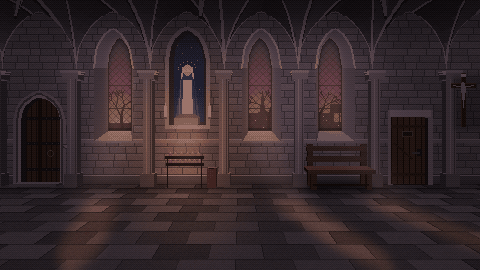
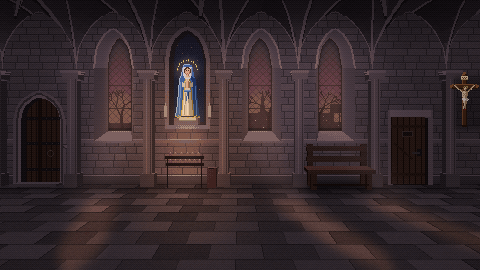
Detail Our Lady statue and crucifix in the convent corridor (#87)
Restores the detailed Our Lady statue in the convent corridor niche. The
work was committed on a local branch (`6056b64`) but never pushed or
merged, so the game still showed the old, plain statue.

## Changes
- `tools/art/convent.py`: hand-pixelled face with parted hair, veil and
neck; blue mantle with folds, rim light and gold trim; cream gown with
sash; praying hands; cloud and crescent base; crown of twelve stars. The
statue is painted after the dusk lightmap with its own candle tint and
pasted undithered, so its colours and face survive pixelisation.
- `assets/art/rooms/convent_corridor.png`: regenerated art.

Also details the corridor crucifix on the right wall: an ivory corpus
with a crown of thorns and bowed head, a loincloth and crossed nailed
feet, on a walnut cross with an INRI titulus. Like the statue, it is
painted after the lightmap and pasted undithered.

## Verification
- Cherry-picked cleanly onto current `main`. `py -3.14 tools\gen_art.py
convent` reproduces the committed PNG byte for byte, so it already
includes #74's changes to `convent.py`.
- `dotnet build`, then a headless import, then a recorded
`--room=convent_corridor --skip-title` frame shows the detailed statue
in the niche.

---------

Copilot-Session: ed02bd10-2448-44ea-80d3-d9a595c5c5a2
Copilot-Session: c405e015-effc-4e56-9192-dc14c6a4dfbb

diff --git a/tools/art/convent.py b/tools/art/convent.py
@@ -287,6 +287,100 @@ def c_cell_door(img):
     d.rectangle([cx - 4, a[1] + 15, cx + 4, a[1] + 18], fill=hx("2a1e14"))
 
 
+def our_lady(img, cx, fy, hy):
+    """The painted plaster Madonna: blue mantle over a cream gown, hands joined, on a cloud and crescent moon,
+    crowned with twelve stars.  cx is the centre line, fy the top of the pedestal and hy the top of her head."""
+    d = ImageDraw.Draw(img)
+    BLUE, BLUE_L, BLUE_D, RIM = hx("4a74c0"), hx("82a8e8"), hx("223c78"), hx("b8d0f0")
+    GOWN, GOWN_D, GOWN_L = hx("ece4d4"), hx("b4a894"), hx("fffaf0")
+    SKIN, SKIN_D = hx("f4cca8"), hx("b8805e")
+    GOLD, GOLD_D = hx("e8c050"), hx("9a7428")
+    # mantle: a hood over the head, falling wide to a flared hem
+    mantle = [(cx - 5, hy + 2), (cx - 4, hy - 1), (cx - 2, hy - 2), (cx + 2, hy - 2), (cx + 4, hy - 1), (cx + 5, hy + 2),
+              (cx + 6, hy + 9), (cx + 8, hy + 13), (cx + 9, hy + 24), (cx + 10, hy + 38), (cx + 12, fy - 2),
+              (cx + 9, fy - 1), (cx + 6, fy - 3), (cx - 6, fy - 3), (cx - 9, fy - 1), (cx - 12, fy - 2),
+              (cx - 10, hy + 38), (cx - 9, hy + 24), (cx - 8, hy + 13), (cx - 6, hy + 9)]
+    d.polygon(mantle, fill=BLUE)
+    # shadowed right side and folds
+    d.polygon([(cx + 4, hy + 10), (cx + 8, hy + 13), (cx + 9, hy + 24), (cx + 10, hy + 38), (cx + 12, fy - 2),
+               (cx + 9, fy - 1), (cx + 7, fy - 3), (cx + 6, hy + 26)], fill=BLUE_D)
+    d.line([(cx + 8, hy + 20), (cx + 9, fy - 4)], fill=BLUE)
+    d.line([(cx - 7, hy + 16), (cx - 8, fy - 5)], fill=BLUE_L)
+    d.line([(cx - 5, hy + 22), (cx - 6, fy - 6)], fill=hx("3a5ea8"))
+    d.line([(cx - 4, hy), (cx - 5, hy + 3)], fill=BLUE_L)
+    # pale rim along her left so she stands clear of the night-blue niche
+    d.line([(cx - 5, hy + 2), (cx - 6, hy + 9), (cx - 8, hy + 13), (cx - 9, hy + 24), (cx - 10, hy + 38),
+            (cx - 12, fy - 2)], fill=RIM)
+    d.line([(cx - 4, hy - 1), (cx - 2, hy - 2), (cx + 2, hy - 2)], fill=RIM)
+    # gown in the opening of the mantle
+    gown = [(cx - 2, hy + 10), (cx + 2, hy + 10), (cx + 4, hy + 28), (cx + 6, fy - 3), (cx - 6, fy - 3),
+            (cx - 4, hy + 28)]
+    d.polygon(gown, fill=GOWN)
+    d.polygon([(cx + 1, hy + 24), (cx + 3, hy + 24), (cx + 5, fy - 3), (cx + 2, fy - 3)], fill=GOWN_D)
+    d.line([(cx - 2, hy + 27), (cx - 3, fy - 4)], fill=GOWN_D)
+    d.line([(cx - 3, hy + 30), (cx - 4, fy - 5)], fill=GOWN_L)
+    d.line([(cx, hy + 28), (cx, fy - 4)], fill=GOWN_L)
+    # gold trim down both edges of the mantle and along the hem
+    d.line([(cx - 2, hy + 10), (cx - 4, hy + 28), (cx - 6, fy - 3)], fill=GOLD)
+    d.line([(cx + 2, hy + 10), (cx + 4, hy + 28), (cx + 6, fy - 3)], fill=GOLD_D)
+    d.line([(cx - 12, fy - 2), (cx - 9, fy - 1), (cx - 6, fy - 3)], fill=GOLD)
+    d.line([(cx + 6, fy - 3), (cx + 9, fy - 1), (cx + 12, fy - 2)], fill=GOLD_D)
+    # blue sash knotted at the waist, its ends hanging
+    d.line([(cx - 3, hy + 24), (cx + 3, hy + 24)], fill=BLUE_L)
+    d.line([(cx - 3, hy + 25), (cx + 3, hy + 25)], fill=BLUE)
+    d.line([(cx, hy + 26), (cx - 1, hy + 34)], fill=BLUE)
+    d.line([(cx + 1, hy + 26), (cx + 1, hy + 32)], fill=BLUE_D)
+    # sleeves meeting at the breast, hands joined in prayer
+    d.polygon([(cx - 5, hy + 16), (cx - 1, hy + 18), (cx - 1, hy + 21), (cx - 5, hy + 20)], fill=GOWN)
+    d.polygon([(cx + 5, hy + 16), (cx + 1, hy + 18), (cx + 1, hy + 21), (cx + 5, hy + 20)], fill=GOWN_D)
+    d.polygon([(cx - 1, hy + 21), (cx - 1, hy + 15), (cx, hy + 13), (cx + 1, hy + 15), (cx + 1, hy + 21)], fill=SKIN)
+    d.line([(cx + 1, hy + 15), (cx + 1, hy + 21)], fill=SKIN_D)
+    d.line([(cx - 2, hy + 16), (cx - 2, hy + 21)], fill=GOWN_D)
+    d.line([(cx + 2, hy + 16), (cx + 2, hy + 21)], fill=hx("8a7e6c"))
+    # white veil framing the face, under the hood
+    d.polygon([(cx - 4, hy + 1), (cx + 4, hy + 1), (cx + 4, hy + 9), (cx + 2, hy + 12), (cx - 2, hy + 12),
+               (cx - 4, hy + 9)], fill=hx("eef0f8"))
+    d.line([(cx + 4, hy + 2), (cx + 4, hy + 9)], fill=hx("a8acc0"))
+    # face, gently bowed: hand-placed pixels so it reads as a young woman at this size
+    face = ("..HHH..",
+            ".HHsHH.",
+            "HHssssH",
+            "HsesesH",
+            "HbsnsbH",
+            "HssssSH",
+            ".SsmsS.",
+            "..SsS..")
+    ink = {"H": hx("5a3826"), "s": SKIN, "S": SKIN_D, "e": hx("5a3428"), "b": hx("ec9c88"),
+           "n": hx("e8b896"), "m": hx("d47a74")}
+    for r, row in enumerate(face):
+        for c, ch in enumerate(row):
+            if ch in ink:
+                d.point((cx - 3 + c, hy + 1 + r), fill=ink[ch])
+    # slender neck and the round neckline of the gown, so the veil only frames her face
+    d.rectangle([cx - 1, hy + 9, cx + 1, hy + 10], fill=SKIN)
+    d.point((cx + 1, hy + 9), fill=SKIN_D)
+    d.line([(cx - 2, hy + 11), (cx + 2, hy + 11)], fill=GOWN)
+    d.point((cx - 2, hy + 10), fill=GOWN)
+    d.point((cx + 2, hy + 10), fill=GOWN_D)
+    # bare feet peeping from the hem, on a little cloud and a gilded crescent moon
+    for x in (cx - 2, cx + 1):
+        d.line([(x, fy - 3), (x + 1, fy - 3)], fill=SKIN)
+    d.polygon([(cx - 9, fy - 3), (cx - 7, fy - 1), (cx - 3, fy), (cx + 3, fy), (cx + 7, fy - 1), (cx + 9, fy - 3),
+               (cx + 7, fy - 2), (cx, fy - 1), (cx - 7, fy - 2)], fill=GOLD)
+    d.line([(cx - 3, fy), (cx + 3, fy)], fill=GOLD_D)
+    for x, r in ((cx - 6, 2), (cx - 2, 2), (cx + 3, 2), (cx + 7, 1)):
+        d.ellipse([x - r, fy - 1, x + r, fy + 2], fill=hx("d8d0c4"))
+    d.line([(cx - 8, fy + 2), (cx + 8, fy + 2)], fill=hx("8a8478"))
+    # crown of twelve stars
+    for k in range(12):
+        a = math.pi * (0.04 + 0.92 * k / 11)
+        sx, sy = round(cx - math.cos(a) * 10), round(hy + 4 - math.sin(a) * 10)
+        d.point((sx, sy), fill=hx("fff2a8"))
+        if k % 2 == 0:
+            d.point((sx, sy - 1), fill=GOLD)
+            d.point((sx, sy + 1), fill=GOLD_D)
+
+
 def c_niche(img):
     """Our Lady in a pointed niche, the votive stand burning beneath her."""
     d = ImageDraw.Draw(img)
@@ -300,23 +394,6 @@ def c_niche(img):
         d.point((sx, sy), fill=hx("c8a850"))
     # pedestal
     CR.box(img, xc - 11, xc + 11, 60, 66, -8, 4, hx("948a78"), top=hx("c8bca4"), side=hx("5a5248"))
-    fx, fy = CR.P(xc, 66, -2)
-    hx_, hy = CR.P(xc, 118, -2)
-    ht = fy - hy
-    # mantle, robe, veil, hands, crown of stars
-    d.polygon([(fx - 11, fy), (fx - 8, fy - ht * 0.5), (fx - 6, hy + 10), (fx, hy + 4), (fx + 6, hy + 10),
-               (fx + 8, fy - ht * 0.5), (fx + 11, fy)], fill=hx("3a5a9a"))
-    d.polygon([(fx - 5, fy), (fx - 4, hy + 14), (fx + 4, hy + 14), (fx + 5, fy)], fill=hx("ece4d4"))
-    d.line([(fx - 8, fy - 2), (fx - 7, hy + 14)], fill=hx("6a8ac8"))
-    d.line([(fx + 6, hy + 14), (fx + 9, fy - 2)], fill=hx("243c70"))
-    d.ellipse([hx_ - 4, hy, hx_ + 4, hy + 9], fill=hx("ead6c0"))
-    d.polygon([(hx_ - 5, hy + 1), (hx_, hy - 2), (hx_ + 5, hy + 1), (hx_ + 6, hy + 12), (hx_ + 4, hy + 5),
-               (hx_ - 4, hy + 5), (hx_ - 6, hy + 12)], fill=hx("ece4d4"))
-    d.polygon([(fx - 3, hy + 22), (fx + 3, hy + 22), (fx, hy + 16)], fill=hx("ead6c0"))
-    for k in range(7):
-        a = math.pi * (0.1 + 0.8 * k / 6)
-        d.point((hx_ - math.cos(a) * 9, hy + 4 - math.sin(a) * 9), fill=hx("f0d070"))
-    d.polygon([(fx - 12, fy), (fx + 12, fy), (fx + 8, fy - 3), (fx - 8, fy - 3)], fill=hx("6a7a4a"))
     # wrought-iron votive stand on the floor before her
     z = 12
     for x in (xc - 16, xc + 16):
@@ -343,6 +420,26 @@ def c_niche(img):
     d.line([(s[0] - 2, s[1]), (s[0] + 2, s[1])], fill=IRON)
 
 
+def statue_layer(size, xc=187):
+    """Our Lady alone on a transparent layer, at her place on the pedestal."""
+    fx, fy = CR.P(xc, 66, -2)
+    _, hy = CR.P(xc, 118, -2)
+    cx, fy, hy = round(fx), round(fy), round(hy)
+    layer = Image.new("RGBA", size, (0, 0, 0, 0))
+    our_lady(layer, cx, fy, hy)
+    return layer, cx, fy, hy
+
+
+def c_statue(img):
+    """Paints Our Lady after the dusk lightmap, under her own softer candle tint, so her colours survive."""
+    layer, cx, fy, hy = statue_layer(img.size)
+    light(img, "ellipse", [cx - 12, hy - 9, cx + 12, hy + 15], hx("e8c070"), 0.18, 3)
+    tint = Image.new("RGB", img.size, hx("e0d4d4"))
+    vgrad(tint, (0, hy - 2, img.width - 1, fy + 3), hx("e0d4d4"), hx("f0d0b0"))
+    lit = ImageChops.multiply(layer.convert("RGB"), tint)
+    img.paste(lit, (0, 0), layer.getchannel("A"))
+
+
 def c_bench(img):
     X0, X1, Z0, Z1 = 306, 364, 3, 17
     a, b = CR.P(X0, 0, Z1), CR.P(X1, 0, Z0)
@@ -357,22 +454,87 @@ def c_bench(img):
     CR.box(img, X0 - 2, X1 + 2, 15, 18, Z0, Z1 + 1, mul(OAK, 1.15), top=hx("8e6240"), side=OAK_D)
 
 
-def c_crucifix(img, xc=463, y0=58):
-    d = ImageDraw.Draw(img)
+def crucifix_geom(xc=463, y0=58):
+    """Screen centre line, top and foot of the upright, and the crossbar row of the corridor crucifix."""
     a, b = CR.P(xc, y0 + 52, 1), CR.P(xc, y0, 1)
-    arm = CR.P(xc, y0 + 40, 1)[1]
-    d.rectangle([a[0] - 2, a[1], a[0] + 2, b[1]], fill=hx("4a2c18"))
-    d.rectangle([a[0] - 12, arm - 2, a[0] + 12, arm + 2], fill=hx("4a2c18"))
-    d.line([(a[0] - 2, a[1]), (a[0] - 2, b[1])], fill=hx("7a5032"))
-    d.line([(a[0] - 12, arm - 2), (a[0] + 12, arm - 2)], fill=hx("7a5032"))
-    x = a[0]
-    corpus = hx("d8ccb4")
-    d.line([(x - 10, arm), (x, arm + 2), (x + 10, arm)], fill=corpus)
-    d.ellipse([x - 2, arm - 3, x + 1, arm + 1], fill=corpus)
-    d.polygon([(x - 2, arm + 1), (x + 2, arm + 1), (x + 1, arm + 14), (x - 1, arm + 14)], fill=corpus)
-    d.line([(x, arm + 14), (x, arm + 22)], fill=corpus)
-    d.rectangle([x - 2, a[1] + 1, x + 2, a[1] + 3], fill=hx("ece0c0"))
-    shadow(img, "rect", [x - 10, a[1] + 2, x + 16, b[1] + 3], 0.25, 2)
+    return round(a[0]), round(a[1]), round(b[1]), round(CR.P(xc, y0 + 40, 1)[1])
+
+
+# hand-pixelled corpus: arms raised from the nailed hands, head bowed to his right under the crown of thorns,
+# white loincloth knotted at the hip, knees bent and the feet crossed over one nail
+CORPUS = ("n...................n",
+          "sS.................Ss",
+          ".sS.......tTtt....Ss.",
+          "..sS.....tHsHt...Ss..",
+          "...sS....HssSH..Ss...",
+          "....sSS..HsSH..SSs...",
+          "......sS..HS..SS.....",
+          ".......sSssSSSs......",
+          "........ssssSS.......",
+          "........sSsSSS.......",
+          "........ssSsSS.......",
+          "........sSsSSS.......",
+          "........sssSS........",
+          ".........ssSS........",
+          "........wwwWWW.......",
+          "........wwwwWWw......",
+          ".........wwWWw.......",
+          ".........ssSS........",
+          ".........ssSS........",
+          "..........sSS........",
+          "..........sS.........",
+          "..........sS.........",
+          ".........sSS.........",
+          ".........sSS.........",
+          ".........snS.........",
+          "..........bb.........")
+
+
+def crucifix_layer(size):
+    """The walnut cross, its INRI titulus and the ivory corpus on a transparent layer."""
+    layer = Image.new("RGBA", size, (0, 0, 0, 0))
+    d = ImageDraw.Draw(layer)
+    x, top, foot, arm = crucifix_geom()
+    WOOD, WOOD_L, WOOD_D = hx("4e2e1a"), hx("8a5a36"), hx("2a180c")
+    # upright and crossbar, lit from the windows on the left, with little rounded finials
+    d.rectangle([x - 2, top, x + 2, foot], fill=WOOD)
+    d.line([(x - 2, top), (x - 2, foot)], fill=WOOD_L)
+    d.line([(x + 2, top), (x + 2, foot)], fill=WOOD_D)
+    d.rectangle([x - 12, arm - 2, x + 12, arm + 2], fill=WOOD)
+    d.line([(x - 12, arm - 2), (x + 12, arm - 2)], fill=WOOD_L)
+    d.line([(x - 12, arm + 2), (x + 12, arm + 2)], fill=WOOD_D)
+    for ex, ey in ((x - 13, arm), (x + 13, arm), (x, top - 1)):
+        d.rectangle([ex - 1, ey - 1, ex + 1, ey + 1], fill=WOOD_L)
+        d.point((ex + 1, ey + 1), fill=WOOD_D)
+    d.rectangle([x - 2, foot - 1, x + 2, foot], fill=WOOD_D)
+    # INRI titulus above his head
+    d.rectangle([x - 3, top + 2, x + 3, top + 5], fill=hx("e8dcb8"))
+    d.line([(x - 3, top + 5), (x + 3, top + 5)], fill=hx("a89670"))
+    for i, dy in ((-2, 3), (0, 3), (2, 3), (-1, 4), (1, 4)):
+        d.point((x + i, top + dy), fill=hx("6a3a24"))
+    # the corpus, hands on the crossbar
+    ink = {"s": hx("ecdcbe"), "S": hx("a88e6c"), "H": hx("6a4428"), "t": hx("a8955a"), "T": hx("5a4a28"),
+           "w": hx("fbf8f0"), "W": hx("b8b0a0"), "n": hx("2a2622"), "b": hx("8a1a18")}
+    ox, oy = x - len(CORPUS[0]) // 2, arm - 2
+    for r, row in enumerate(CORPUS):
+        for c, ch in enumerate(row):
+            if ch in ink:
+                d.point((ox + c, oy + r), fill=ink[ch])
+    return layer
+
+
+def c_crucifix(img):
+    """Only the cast shadow is painted under the dusk light; the cross itself goes on afterwards."""
+    x, top, foot, arm = crucifix_geom()
+    shadow(img, "rect", [x - 10, top + 2, x + 16, foot + 3], 0.3, 2)
+
+
+def c_crucifix_lit(img):
+    layer = crucifix_layer(img.size)
+    x, top, foot, _ = crucifix_geom()
+    tint = Image.new("RGB", img.size, hx("b8acb0"))
+    vgrad(tint, (0, top, img.width - 1, foot), hx("c4b6b0"), hx("948890"))
+    img.paste(ImageChops.multiply(layer.convert("RGB"), tint), (0, 0), layer.getchannel("A"))
 
 
 def c_floor(img):
@@ -414,6 +576,8 @@ def paint_corridor():
     lights.append(("ellipse", [117, 60, 257, 240], hx("a06030"), 0.55, 26))
     lights.append(("ellipse", [160, 130, 214, 196], hx("c08040"), 0.4, 10))
     img = lightmap(img, (96, 86, 112), lights)
+    c_statue(img)
+    c_crucifix_lit(img)
     for g in glass:
         light(img, "polygon", g, hx("f0a060"), 0.22, 3)
     for i in WINDOW_BAYS:
@@ -760,7 +924,11 @@ def moon_patch(size):
 
 def build():
     corridor = paint_corridor()
-    save(pixelize(corridor, palette_of(corridor, 128)), "rooms", "convent_corridor.png")
+    px = pixelize(corridor, palette_of(corridor, 128))
+    # Our Lady is too small for dithering: her face and robes keep their exact undithered colours
+    px.paste(corridor, (0, 0), statue_layer(corridor.size)[0].getchannel("A"))
+    px.paste(corridor, (0, 0), crucifix_layer(corridor.size).getchannel("A"))
+    save(px, "rooms", "convent_corridor.png")
 
     base = paint_cell()
     full = paint_cell(drawer=True, comb=True, mirror=True)
